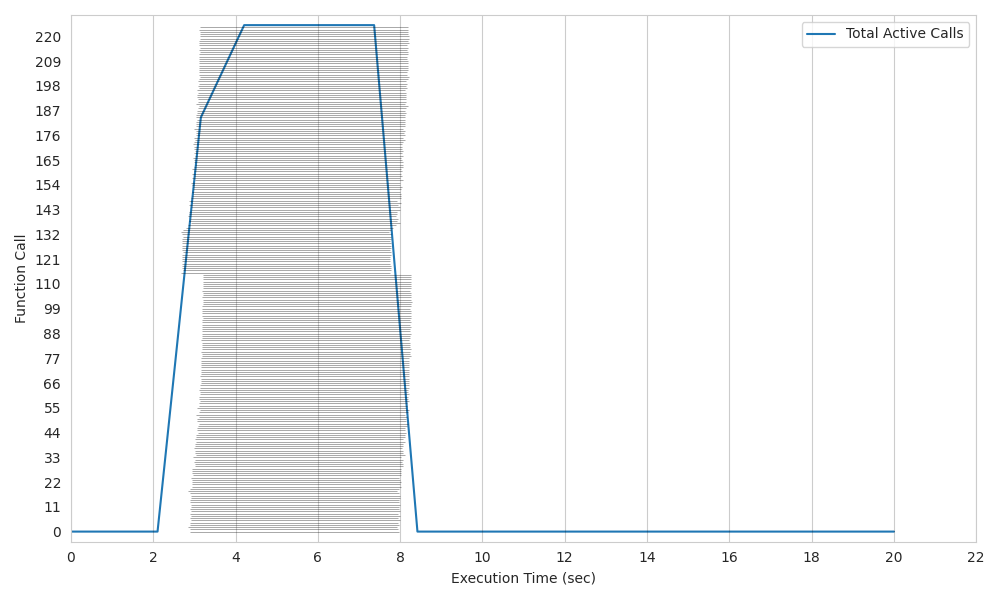
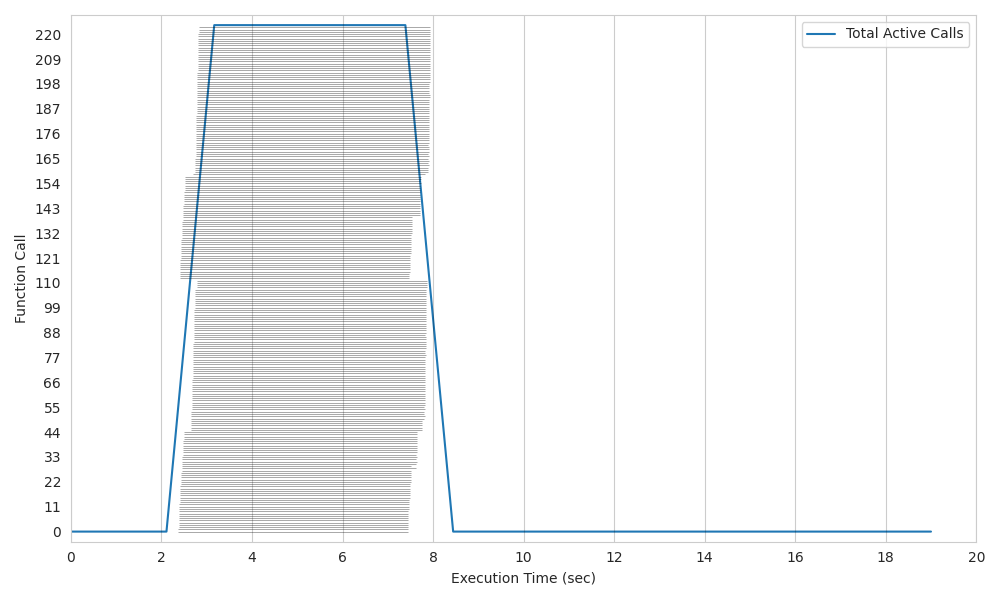
Implemented work queue Deleted ID assignation Updated plots

diff --git a/lithops/serverless/backends/k8s/entry_point.py b/lithops/serverless/backends/k8s/entry_point.py
@@ -24,7 +24,7 @@ import flask
 import time
 import requests
 from functools import partial
-from multiprocessing import Process, Value
+from multiprocessing import Value
 
 from lithops.version import __version__
 from lithops.utils import setup_lithops_logger, b64str_to_dict
@@ -121,113 +121,76 @@ def run_job_k8s(payload):
 
     logger.info("Finishing kubernetes execution")
 
-def run_job_k8s_rabbitmq(payload, job_index, running_jobs):
+def run_job_k8s_rabbitmq(payload, running_jobs):
     logger.info(f"Lithops v{__version__} - Starting kubernetes execution")
 
     act_id = str(uuid.uuid4()).replace('-', '')[:12]
     os.environ['__LITHOPS_ACTIVATION_ID'] = act_id
     os.environ['__LITHOPS_BACKEND'] = 'k8s_rabbitmq'
-    
-    payload['call_ids']  = [payload['call_ids'][job_index]]
-    payload['data_byte_ranges'] = [payload['data_byte_ranges'][job_index]]
 
     function_handler(payload)
-    running_jobs.value -= 1
+    running_jobs.value += len(payload['call_ids'])
 
     logger.info("Finishing kubernetes execution")
 
-# Function to calculate the number of executions of this pod
-def calculate_executions(num_cpus_cluster, pod_cpus, range_ids_pod, total_functions):
-    base_executions = total_functions // num_cpus_cluster
-    remaining_executions = total_functions % num_cpus_cluster
-
-    # Calculate the number of executions based on the pod CPUs and the number of executions
-    pod_executions = pod_cpus * base_executions
-    
-    if range_ids_pod[0] <= remaining_executions <= range_ids_pod[1]:
-        remaining_executions = remaining_executions - range_ids_pod[0]
-        pod_executions = pod_executions + remaining_executions
-        return pod_executions, base_executions
-    
-    if remaining_executions > range_ids_pod[0]:
-        pod_executions = pod_executions + pod_cpus
-
-    return pod_executions, base_executions
-
 # Callback to receive the payload and run the jobs
-def callback_run_jobs(ch, method, properties, body):
-    global range_start, range_end, num_cpus_cluster
-    payload = json.loads(body)
-
-    total_calls = payload['total_calls']
-    requested_cpus = 0
+def callback_work_queue(ch, method, properties, body):
+    global cpus_pod
 
     logger.info(f"Call from lithops received.")
 
-    try:
-        # Calculate the number of executions of this pod
-        if total_calls > range_start:
-            if range_end > total_calls - 1:
-                requested_cpus = total_calls - range_start
-            else:
-                requested_cpus = range_end - range_start + 1
-        else:  # No more executions to do to this pod
-            return
+    message = json.loads(body)
+    tasks = message['total_calls']
 
-        pod_cpus = range_end - range_start + 1
-        total_executions, bases_executions = calculate_executions(num_cpus_cluster, pod_cpus, [range_start, range_end], total_calls)
-        
-        logger.info(f"Total executions: {total_executions}")
-        logger.info(f"Starting {requested_cpus} processes")
+    running_jobs = Value('i', cpus_pod)  # Shared variable to track completed jobs
 
-        running_jobs = Value('i', 0)  # Shared variable to track completed jobs
+    # If there are more tasks than cpus in the pod, we need to send a new message
+    if tasks <= running_jobs.value:
+        processes_to_start = tasks
+    else:
+        processes_to_start = running_jobs.value
 
-        # Start the first stack of processes
-        num_processes = requested_cpus if total_executions == requested_cpus else pod_cpus
-        for i in range(num_processes):
-            running_jobs.value += 1
-            p = Process(target=run_job_k8s_rabbitmq, args=(payload, range_start + i, running_jobs)).start()
+        message_to_send = message.copy()
+        message_to_send['total_calls'] = tasks - running_jobs.value 
+        message_to_send['call_ids']  = message_to_send['call_ids'][running_jobs.value:]
+        message_to_send['data_byte_ranges'] = message_to_send['data_byte_ranges'][running_jobs.value:]
 
-        # Check and start if there is more stacks to run
-        if total_executions != requested_cpus:
-            total_executions -= pod_cpus
-            
-            for bases in range(bases_executions + 2):
-                execution_id = 0
-                while execution_id < pod_cpus and total_executions != 0:
-                    if running_jobs.value < pod_cpus:
-                        running_jobs.value += 1
-                        p = Process(target=run_job_k8s_rabbitmq, args=(payload, (num_cpus_cluster * (bases + 1)) + range_start + execution_id, running_jobs)).start()
+        message['total_calls'] = running_jobs.value
+        message['call_ids'] = message['call_ids'][:running_jobs.value]
+        message['data_byte_ranges'] = message['data_byte_ranges'][:running_jobs.value]
 
-                        execution_id += 1
-                        total_executions = total_executions - 1
+        ch.basic_publish(
+            exchange='',
+            routing_key='task_queue',
+            body=json.dumps(message_to_send),
+            properties=pika.BasicProperties(
+                delivery_mode=pika.spec.PERSISTENT_DELIVERY_MODE
+            ))
 
-        logger.info(f"All processes completed")
-    except:
-        # The IDs are not assigned yet
-        pass
+    logger.info(f"Starting {processes_to_start} processes")
+
+    message['worker_processes'] = running_jobs.value
+    running_jobs.value -= processes_to_start
+    run_job_k8s_rabbitmq(message, running_jobs)
+
+    logger.info(f"All processes completed")
+    ch.basic_ack(delivery_tag=method.delivery_tag)
 
 def start_rabbitmq_listening(payload):
-    global range_start, range_end, num_cpus_cluster
+    global cpus_pod
+
+    # Connect to rabbitmq
     params = pika.URLParameters(payload['amqp_url'])
     connection = pika.BlockingConnection(params)
     channel = connection.channel()
+    channel.queue_declare(queue='task_queue', durable=True)
+    channel.basic_qos(prefetch_count=1)
 
-    # Get the range of IDs of this pod
-    range_start = payload['range_start']
-    range_end = payload['range_end']
-    num_cpus_cluster = payload['num_cpus_cluster']
-    queue_name = payload['queue_name']
-
-    # Declare and bind exchange to get the payload
-    channel.exchange_declare(exchange='lithops', exchange_type='fanout', durable=True)
-
-    # Use a durable queue with a unique name
-    channel.queue_declare(queue=queue_name, durable=True)
-    channel.queue_bind(exchange='lithops', queue=queue_name)
-
+    # Get the number of cpus of the pod
+    cpus_pod = payload['cpus_pod']
+    
     # Start listening to the new job
-    channel.basic_consume(queue=queue_name, on_message_callback=callback_run_jobs, auto_ack=True)
+    channel.basic_consume(queue='task_queue', on_message_callback=callback_work_queue)
 
     logger.info(f"Listening to rabbitmq...")
     channel.start_consuming()

diff --git a/lithops/serverless/backends/k8s/k8s.py b/lithops/serverless/backends/k8s/k8s.py
@@ -101,7 +101,6 @@ class KubernetesBackend:
             params = pika.URLParameters(self.amqp_url)
             self.connection = pika.BlockingConnection(params)
             self.channel = self.connection.channel()
-            self.channel.exchange_declare(exchange='lithops', exchange_type='fanout', durable=True)
 
             # Define some needed variables
             self._get_nodes()
@@ -309,7 +308,7 @@ class KubernetesBackend:
         logger.debug('Note that this backend does not manage runtimes')
         return []
 
-    def _create_pod(self, pod, pod_name, cpu, memory, cluster_info_cpu, num_cpus_cluster):
+    def _create_pod(self, pod, pod_name, cpu, memory):
         pod["metadata"]["name"] = f"lithops-pod-{pod_name}"
         pod["spec"]["nodeName"] = pod_name.split("-")[0]
         pod["spec"]["containers"][0]["image"] = self.image
@@ -317,30 +316,16 @@ class KubernetesBackend:
         pod["spec"]["containers"][0]["resources"]["requests"]["memory"] = memory
         pod["metadata"]["labels"] = {"app": "lithops-pod"}
 
-        range_start = sum(value for pod_name_cluster, value in cluster_info_cpu.items() if pod_name_cluster < pod_name)
-        range_end = range_start + cpu - 1
-
-        # Queue name: pod_name + hour + minute
-        t = time.localtime()
-        queue_name = f"{pod_name}-{t.tm_hour}-{t.tm_min}"
-
         payload = {
             'log_level': 'DEBUG',
             'amqp_url': self.amqp_url,
-            'queue_name': queue_name,
-            'range_start': range_start,
-            'range_end': range_end,
-            'num_cpus_cluster': num_cpus_cluster
+            'cpus_pod': cpu,
         }
 
         pod["spec"]["containers"][0]["args"][1] = "start_rabbitmq"
         pod["spec"]["containers"][0]["args"][2] = utils.dict_to_b64str(payload)
         
         self.core_api.create_namespaced_pod(body=pod, namespace='default')
-
-        # Init rabbitmq queues to not lose any message
-        self.channel.queue_declare(queue=queue_name, durable=True)
-        self.channel.queue_bind(exchange='lithops', queue=queue_name)
 
     def _get_nodes(self) :
         self.nodes = []
@@ -416,7 +401,7 @@ class KubernetesBackend:
 
         # Create all the pods
         for pod_name in cluster_info_cpu.keys():
-            self._create_pod(default_pod_config, pod_name, cluster_info_cpu[pod_name], cluster_info_mem[pod_name], cluster_info_cpu, num_cpus_cluster)
+            self._create_pod(default_pod_config, pod_name, cluster_info_cpu[pod_name], cluster_info_mem[pod_name])
 
         logger.info(f"Total cpus of the cluster: {num_cpus_cluster}")        
 
@@ -573,8 +558,28 @@ class KubernetesBackend:
             job_key = job_payload['job_key']
             self.jobs.append(job_key)
 
-            # Send the payload from the client to the workers through rabbitmq
-            self.channel.basic_publish(exchange='lithops', routing_key='', body=json.dumps(job_payload))
+            # Send packages of tasks to the queue
+            granularity = job_payload['total_calls'] // len(self.nodes) if self.k8s_config['worker_processes'] <= 1 else self.k8s_config['worker_processes']
+            times, res = divmod(job_payload['total_calls'], granularity)
+
+            for i in range(times + (1 if res != 0 else 0)):
+                num_tasks = granularity if i < times else res
+                payload_edited = job_payload.copy()
+
+                start_index = i * granularity
+                end_index = start_index + num_tasks 
+
+                payload_edited['call_ids']  = payload_edited['call_ids'][start_index:end_index]
+                payload_edited['data_byte_ranges'] = payload_edited['data_byte_ranges'][start_index:end_index]
+                payload_edited['total_calls'] = num_tasks
+
+                self.channel.basic_publish(
+                    exchange='',
+                    routing_key='task_queue',
+                    body=json.dumps(payload_edited),
+                    properties=pika.BasicProperties(
+                        delivery_mode=pika.spec.PERSISTENT_DELIVERY_MODE
+                    ))
 
             activation_id = f'lithops-{job_key.lower()}'
         else:

diff --git a/docs/source/compute_config/kubernetes_rabbitmq.md b/docs/source/compute_config/kubernetes_rabbitmq.md
@@ -66,7 +66,7 @@ In these graphs, we will compare the usage of the original K8s architecture with
 
 All of these tests consist of running 225 functions on a 2-node cluster, each with 128 CPUs. The executed function involves a 5-second sleep.
 
-In this scenario, it is evident that the invocation time is consistently reduced by a factor of **up to 4x** on cold start and **up to 5x** on warm start. This represents a significant enhancement for parallel function execution.
+In this scenario, it is evident that the invocation time is consistently reduced by a factor of **up to 5x** on cold start and **up to 7x** on warm start. This represents a significant enhancement for parallel function execution.
 
 #### Plot 1: Kubernetes K8s original. 
 
@@ -82,13 +82,13 @@ In this scenario, it is evident that the invocation time is consistently reduced
 
 #### Plot 3: Kubernetes K8s RabbitMQ. 
 
-*Elapsed time = 8,35 sec.*
+*Elapsed time = 8 sec.*
 
 ![Kubernetes K8s RabbitMQ plot](../images/plots_kubernetes/rabbitmq_histogram.png)
 
 #### Plot 4: Kubernetes K8s RabbitMQ with workers on Warm Start. 
 
-*Elapsed time = 6,5 sec.*
+*Elapsed time = 5,9 sec.*
 
 ![Kubernetes K8s RabbitMQ with Warm Start plot](../images/plots_kubernetes/rabbitmq_warm_start_histogram.png)
 
